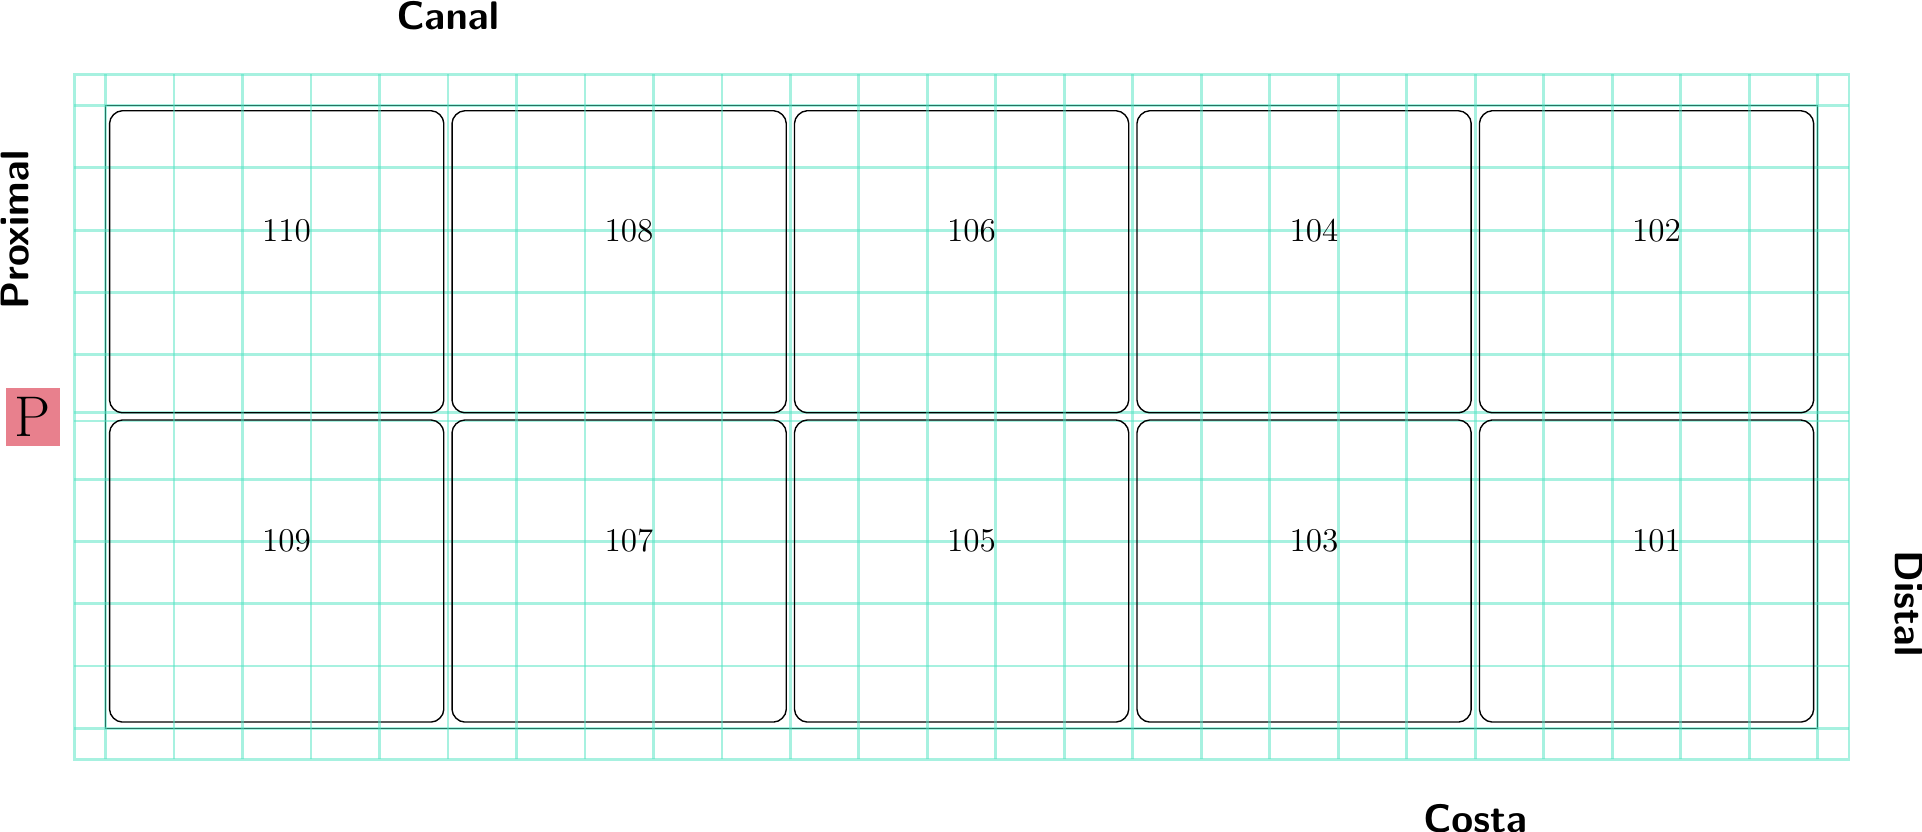
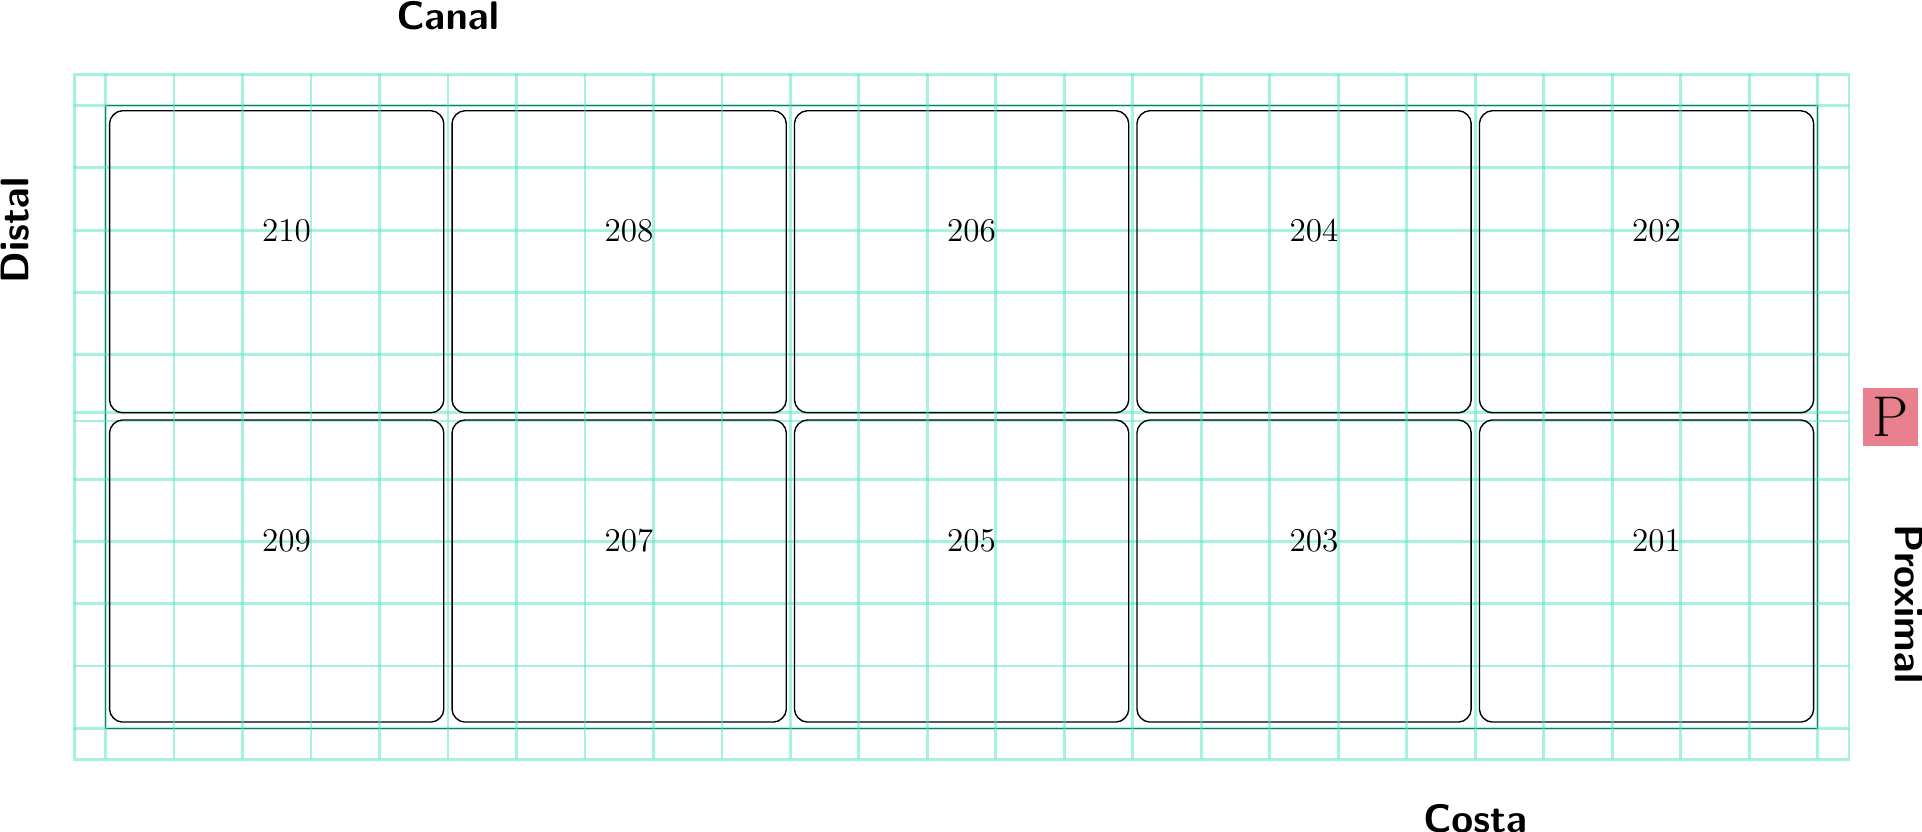
feat(easy label): :sparkles: Add proto implementation of EasyLabel

diff --git a/easy_label/templates/easy-label.html b/easy_label/templates/easy-label.html
@@ -1,42 +1,129 @@
 {% extends 'base.html' %}
+{% load static %}
 {% block title %}EasyLabel{% endblock %}
 
 {% block left_sidebar %}
-    {% include 'left-sidebar.html' %}
+    {% include 'left-sidebar-easylabel.html' %}
 {% endblock %}
 
 {% block content %}
+
+<script type="text/javascript">
+    var hash = "{% static hash %}".replace(/^.*[\\/]/, '');
+    var staticBaseUrl = "{% get_static_prefix %}";
+    var centers = JSON.parse("{{ centers|escapejs }}")
+</script>
+
+<script src="{% static 'js/openGrid.js' %}"></script>
+<script src="{% static 'js/refreshCenters.js' %}"></script>
+
 <div class="tab">
-    <button class="tablinks">Lobera</button>
-    <button class="tablinks">Pecera</button>
-    <button class="tablinks">Tensor</button>
+    <button class="tablinks" onclick="openGrid(event, 'lobera')" clicked>Lobera</button>
+    <button class="tablinks" onclick="openGrid(event, 'pecera')">Pecera</button>
+    <button class="tablinks" onclick="openGrid(event, 'tensores')">Tensor</button>
     <div class="dropdown-wrapper-centers">
-        {% if modules.value > 1 %}
-            <select id="modules-dropdown" class="modules-dropdown">
-                {% for module in modules.iterator %}
-                    <option value="{{ Modulo }}">Módulo {{ module }}</option>
-                {% endfor %}
-            </select>
-        {% endif %}
-        <select id="centers-dropdown" class="centers-dropdown">
+        <select id="modules-dropdown" class="modules-dropdown" onclick="refreshModule(event)">
+            {% for module in modules %}
+                {% if module == 1 %}
+                    <option value="{{ module }}" selected>Módulo {{ module }}</option>
+                {% else %}
+                    <option value="{{ module }}">Módulo {{ module }}</option>
+                {% endif %}
+            {% endfor %}
+        </select>
+        <select id="centers-dropdown" class="centers-dropdown" onchange="refreshCenters(event)">
             {% for name in data.centers_name %}
                 {% if center == name %}
-                    <option value="{{ center }}" selected>{{ name }}</option>
+                    <option value="{{ name }}" selected>{{ name }}</option>
                 {% else %}
-                    <option value="{{ center }}">{{ name }}</option>
+                    <option value="{{ name }}">{{ name }}</option>
                 {% endif %}
             {% endfor %}
         </select>
     </div>
 </div>
+
+
 <div id="lobera" class="tabcontent">
     <div class="grid-container-loberas">
         <div class="loberas-left-column">
-            <h1 class="loberas-legend">Inspección de Fondo Lobero</h1>
+            <h1 class="loberas-legend">Inspección de Fondo Lobero {{ filename }}</h1>
+            <div class="image-container">
+                <img src="{% static templates.lobera_fondo %}" class="img-loberas-fondo" id="img-loberas-fondo">
+            </div>
+            <h1 class="loberas-legend">Inspección de Lateral Lobero</h1>
+            <div class="image-container">
+                <img src="{% static templates.lobera_lateral %}" class="img-loberas-lateral" id="img-loberas-lateral">
+            </div>
         </div>
+
+        <div class="loberas-right-column">
+            <h1 class="loberas-legend">Inspección de Cabeceras</h1>
+            <div class="image-container">
+                <img src="{% static templates.lobera_cabecera %}" class="img-loberas-cabeceras" id="img-loberas-cabeceras">
+            </div>
+            <h1 class="loberas-legend">Inspección de Mamparos</h1>
+            <div class="dropdown-wrapper">
+                <select id="mamparos-dropdown" class="mamparos-dropdown">
+                    {% for label in mamparo_labels %}
+                        <option value="{{ label }}">{{ label }}</option>
+                    {% endfor %}
+                </select>
+            </div>
+            <div class="image-container">
+                <img src="{% static 'imgs/assets/fixed/seawolf_sep1.png' %}" class="img-loberas-mamparos">
+            </div>
+        </div>
+    </div>
+</div>
+
+
+<div id="pecera" class="tabcontent">
+    <div class="dropdown-wrapper">
+        <select id="peceras-dropdown" class="peceras-dropdown">
+            {% for label in pecera_labels %}
+                <option value="{{ label }}">{{ label }}</option>
+            {% endfor %}
+        </select>
+    </div>
+    <div class="grid-container-peceras">
+        <div class="peceras-left-column">
+            <h1 class="loberas-legend">Frontal</h1>
+            <div class="image-container">
+                <img src="{% static 'imgs/assets/fixed/fishbowl_lateral.png' %}" class="img-peceras-lateral-1">
+            </div>
+            <h1 class="loberas-legend">Canal</h1>
+            <div class="image-container">
+                <img src="{% static 'imgs/assets/fixed/fishbowl_lateral.png' %}" class="img-peceras-lateral-2">
+            </div>
+        </div>
+        <div class="peceras-center-column">
+            <h1 class="loberas-legend">Distal</h1>
+            <div class="image-container">
+                <img src="{% static 'imgs/assets/fixed/fishbowl_lateral.png' %}" class="img-peceras-lateral-3">
+            </div>
+            <h1 class="loberas-legend">Costa</h1>
+            <div class="image-container">
+                <img src="{% static 'imgs/assets/fixed/fishbowl_lateral.png' %}" class="img-peceras-lateral-4">
+            </div>
+        </div>
+        <div class="peceras-right-column">
+            <h1 class="loberas-legend">Inspección de Fondo Pecera</h1>
+            <div class="image-container">
+                <img src="{% static 'imgs/assets/fixed/fishbowl_background.png' %}" class="img-peceras-topview">
+            </div>
+        </div>
+    </div>
+</div>
+
+
+<div id="tensores" class="tabcontent">
+    <div class="centered-tensores">
+        <img src="{% static templates.tensor %}" class="img-tensores" id="img-tensores">
     </div>
 </div>
 {% endblock %}
 
 {% block right_sidebar %}
+    {% include 'right-sidebar-easylabel.html' %}
 {% endblock %}

diff --git a/easy_label/static/js/refreshCenters.js b/easy_label/static/js/refreshCenters.js
@@ -1,0 +1,108 @@
+function refreshCenters(event) {
+    /* 
+    Refresh the center image tempaltes when the center is changed
+    */
+
+    var center = document.getElementById("centers-dropdown").value;
+    var module = 0;
+    var x_flip = + centers[center]['x_flip'][module];
+    var y_flip = + centers[center]['y_flip'][module];
+    var double = + centers[center]['double'][module];
+    var center_modules = centers[center]['modules'];
+    var jails = centers[center]['jails'][module];
+    var scope = centers[center]['scopes'][module].toString()[0];
+
+
+    document.getElementById("img-loberas-fondo").src = staticBaseUrl + "imgs/assets/background/" + center.replace(/ /g, "") + `_${module}.png`;
+    document.getElementById("img-loberas-lateral").src = staticBaseUrl + "imgs/assets/lateral/" + center.replace(/ /g, "") + `_${module}.png`;
+    document.getElementById("img-loberas-cabeceras").src = staticBaseUrl + "imgs/assets/fixed/seawolf_head_" + x_flip + y_flip + double + ".png";
+    document.getElementById("img-tensores").src = staticBaseUrl + "imgs/assets/tensor/" + center.replace(/ /g, "") + `_${module}.png`;
+
+    var dropdownModule = document.getElementById("modules-dropdown");
+    for (i = dropdownModule.length - 1; i >= 0; i--) {
+        dropdownModule.remove(i);
+    }
+    for (i = 1; i <= center_modules; i++) {
+        dropdownModule.appendChild(new Option('Módulo ' + i, i));
+    }
+
+    refreshMamparos(x_flip, y_flip, jails);
+    refreshPeceras(jails, scope);
+}
+
+function refreshModule(event) {
+    /* 
+    Refresh the center image templates when the module is changed
+    */
+
+    var center = document.getElementById("centers-dropdown").value;
+    var module = document.getElementById("modules-dropdown").value - 1;
+    var x_flip = + centers[center]['x_flip'][module];
+    var y_flip = + centers[center]['y_flip'][module];
+    var double = + centers[center]['double'][module];
+    var jails = centers[center]['jails'][module];
+    var scope = centers[center]['scopes'][module].toString()[0];
+
+    document.getElementById("img-loberas-fondo").src = staticBaseUrl + "imgs/assets/background/" + center.replace(/ /g, "") + `_${module}.png`;
+    document.getElementById("img-loberas-lateral").src = staticBaseUrl + "imgs/assets/lateral/" + center.replace(/ /g, "") + `_${module}.png`;
+    document.getElementById("img-loberas-cabeceras").src = staticBaseUrl + "imgs/assets/fixed/seawolf_head_" + x_flip + y_flip + double + ".png";
+    document.getElementById("img-tensores").src = staticBaseUrl + "imgs/assets/tensor/" + center.replace(/ /g, "") + `_${module}.png`;
+
+    refreshMamparos(x_flip, y_flip, jails);
+    refreshPeceras(jails, scope);
+}
+
+function refreshMamparos(x_flip, y_flip, jails){
+    /* 
+    Refresh the mamparos dropdown when the module or the center is changed
+    */
+    var dropdownModule = document.getElementById("mamparos-dropdown"); 
+    for (i = dropdownModule.length - 1; i >= 0; i--) {
+        dropdownModule.remove(i);
+    }
+
+    if (y_flip) {
+        for (i = jails-3; i >= 0; i-=2) {
+            var j = i+1
+            if (x_flip) {
+                var value = "L" + i + " - " + "L" + j ;
+                dropdownModule.appendChild(new Option(value, value));
+            } else {
+                var value = "L" + j + " - " + "L" + i ;
+                dropdownModule.appendChild(new Option(value, value));
+            }
+        }
+    } else {
+        for (i = 1; i <= jails-2; i+=2) {
+            var j = i+1
+            if (x_flip) {
+                var value = "L" + i + " - " + "L" + j ;
+                dropdownModule.appendChild(new Option(value, value));
+            } else {
+                var value = "L" + j + " - " + "L" + i ;
+                dropdownModule.appendChild(new Option(value, value));
+            }
+        }
+    }
+
+    
+}
+
+function refreshPeceras(jails, scope){
+    /* 
+    Refresh the peceras dropdown when the module or the center is changed
+    */
+    var dropdownModule = document.getElementById("peceras-dropdown"); 
+    for (i = dropdownModule.length - 1; i >= 0; i--) {
+        dropdownModule.remove(i);
+    }
+    for (i=1; i <= jails; i++) {
+        if (i <= 9) {
+            var value = scope + "0" + i
+            dropdownModule.appendChild(new Option(value, value));
+        } else {
+            var value = scope + i
+            dropdownModule.appendChild(new Option(value, value));
+        }
+    }
+}

diff --git a/easy_label/static/js/openGrid.js b/easy_label/static/js/openGrid.js
@@ -1,0 +1,21 @@
+function openGrid(evt, gridName) {
+    /*
+    Show the grid of the selected section
+    */ 
+
+    // Get all elements with class="tabcontent" and hide them
+    var tabcontent = document.getElementsByClassName("tabcontent");
+    for (i = 0; i < tabcontent.length; i++) {
+        tabcontent[i].style.display = "none";
+    }
+
+    // Get all elements with class="tablinks" and remove the class "active"
+    var tablinks = document.getElementsByClassName("tablinks");
+    for (i = 0; i < tablinks.length; i++) {
+        tablinks[i].className = tablinks[i].className.replace(" active", "");
+    }
+
+    // Show the current tab, and add an "active" class to the button that opened the tab
+    document.getElementById(gridName).style.display = "block";
+    evt.currentTarget.className += " active";
+}

diff --git a/easy_label/templates/right-sidebar-easylabel.html b/easy_label/templates/right-sidebar-easylabel.html
@@ -1,0 +1,16 @@
+{% load static %}
+
+<div class="selected-image-container">
+    <img id="selected-image" src="{% static 'imgs/favicon.png'%}" alt="Selected Image" />
+</div>
+
+<div class="comment-section">
+    <textarea id="comment-box" placeholder="Agrega un comentario..."></textarea>
+    <!-- <button id="save-comment-button">Save Comment</button> -->
+</div>
+
+<hr class="sidebar-divider"/>
+
+<div class="download-section">
+    <button id="download-button">Descargar Anotaciones</button>
+</div>

diff --git a/easy_label/templates/footer.html b/easy_label/templates/footer.html
@@ -1,5 +1,5 @@
 <div class="footer">
-    <p>© 2023 EasyLabel. Todos los derechos reservados.</p>
+    <p>© 2024 EasyLabel. Todos los derechos reservados.</p>
     <p>
         Desarrollado para
         <a href="https://www.tri-chile.cl" target="_blank" class="footer-link">Tri-Chile.</a>

diff --git a/easy_label/templates/left-sidebar-easylabel.html b/easy_label/templates/left-sidebar-easylabel.html
@@ -1,0 +1,9 @@
+{% load static %}
+
+
+<div class="image-list">
+    <h4 class="image-list-title">Selector de Imágenes</h4>
+    <div class="selected-image-container">
+        <img id="selected-image" src="{% static 'imgs/favicon.png'%}" alt="Selected Image" />
+    </div>
+</div>

diff --git a/easy_label/static/css/style.css b/easy_label/static/css/style.css
@@ -72,7 +72,7 @@
     margin-top: auto;
     background-color: var(--footer-bg);
     color: var(--footer-text);
-    padding: 10px 0;
+    padding: 0px 0;
   }
   
   /* Additional Custom Styles */

diff --git a/easy_label/easy_label/views/easy_label.py b/easy_label/easy_label/views/easy_label.py
@@ -1,4 +1,5 @@
 import os
+import json
 
 from django.shortcuts import render, redirect
 from django.conf import settings
@@ -9,15 +10,39 @@ from easy_label.src import DataLoader
 def easy_label(request, hash):
     data_loader = DataLoader(hash)
     data = data_loader.load_data()
-    center = 'AMPARO GRANDE'
+    center = 'CARMEN'
+    module = "0"
     modules = data['centers'][center]['modules']
-    print(modules)
+    filename = data['centers'][center]['filename']
+    jaulas = data['centers'][center]['jails'][module]
+    scope = str(data['centers'][center]['scopes'][module])
+    x_flip = int(data['centers'][center]['x_flip'][module])
+    y_flip = int(data['centers'][center]['y_flip'][module])
+    double = int(data['centers'][center]['double'][module])
+    
+    templates = {
+        "lobera_fondo": os.path.join(os.path.normpath('imgs/assets/background/'), f'{filename}_{module}.png'),
+        "lobera_lateral": os.path.join(os.path.normpath('imgs/assets/lateral/'), f'{filename}_{module}.png'),
+        "lobera_cabecera": os.path.join(os.path.normpath('imgs/assets/fixed/'), f'seawolf_head_{x_flip}{y_flip}{double}.png'),
+        "tensor": os.path.join(os.path.normpath('imgs/assets/tensor/'), f'{filename}_{module}.png')
+    }
+
+    mamparo_labels = ["L" + str(i+1) + " - " + "L" + str(i+2) if x_flip else "L" + str(i+2) + " - " + "L" + str(i+1) for i in range(0, jaulas-2, 2)]
+    if y_flip: mamparo_labels = list(reversed(mamparo_labels))
+    pecera_labels = [str(scope)[0] + "0" + str(i+1) if i < 9 else str(scope)[0] + str(i+1) for i in range(jaulas)]
+
     context = {
+        "hash": hash,
         "data": data,
+        "centers": json.dumps(data['centers']),
         "center": center,
-        "modules": { 
-            "value": modules,
-            "iterator": range(1, modules+1)
-        }
+        "modules": range(1, modules+1),
+        "filename": filename,
+        "templates": templates,
+        "mamparo_labels": mamparo_labels,
+        "pecera_labels": pecera_labels,
+        "x_flip": x_flip,
+        "y_flip": y_flip,
+        "double": double,
     }
     return render(request, 'easy-label.html', context=context)
